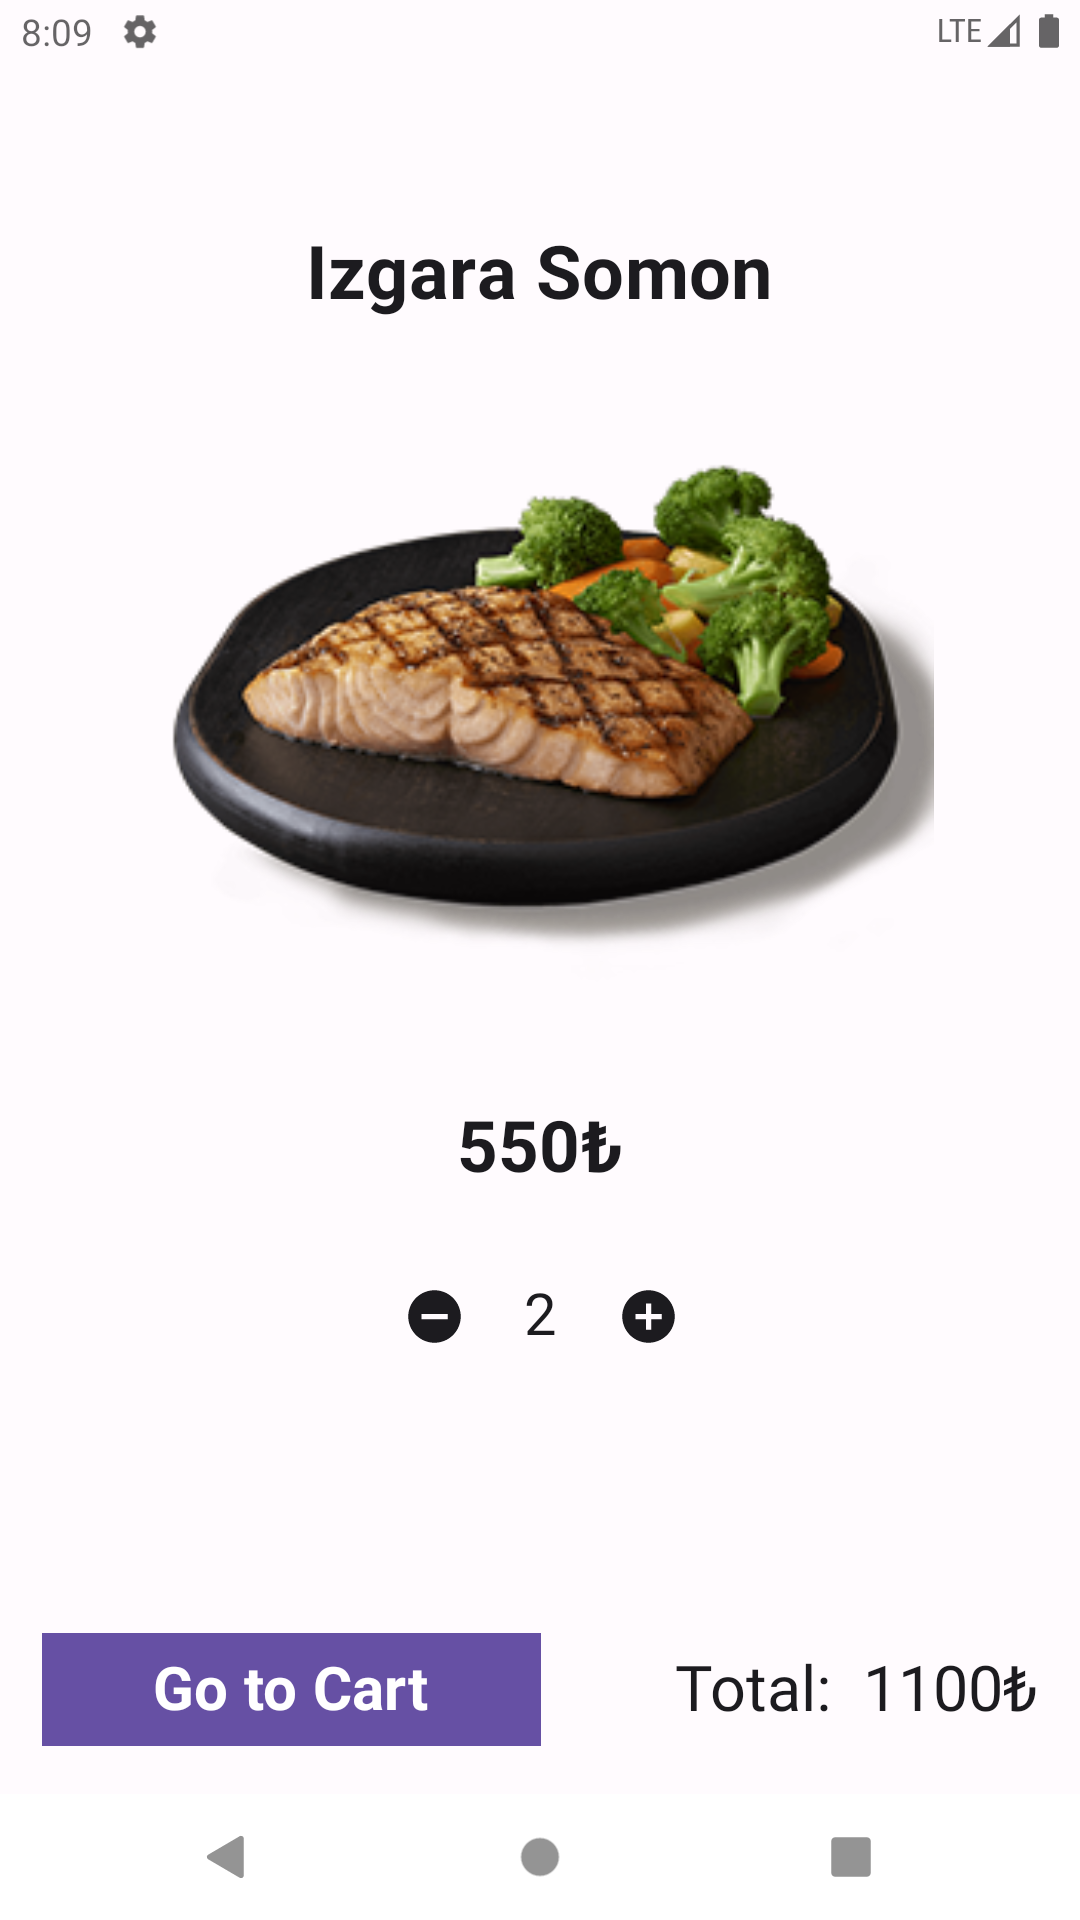
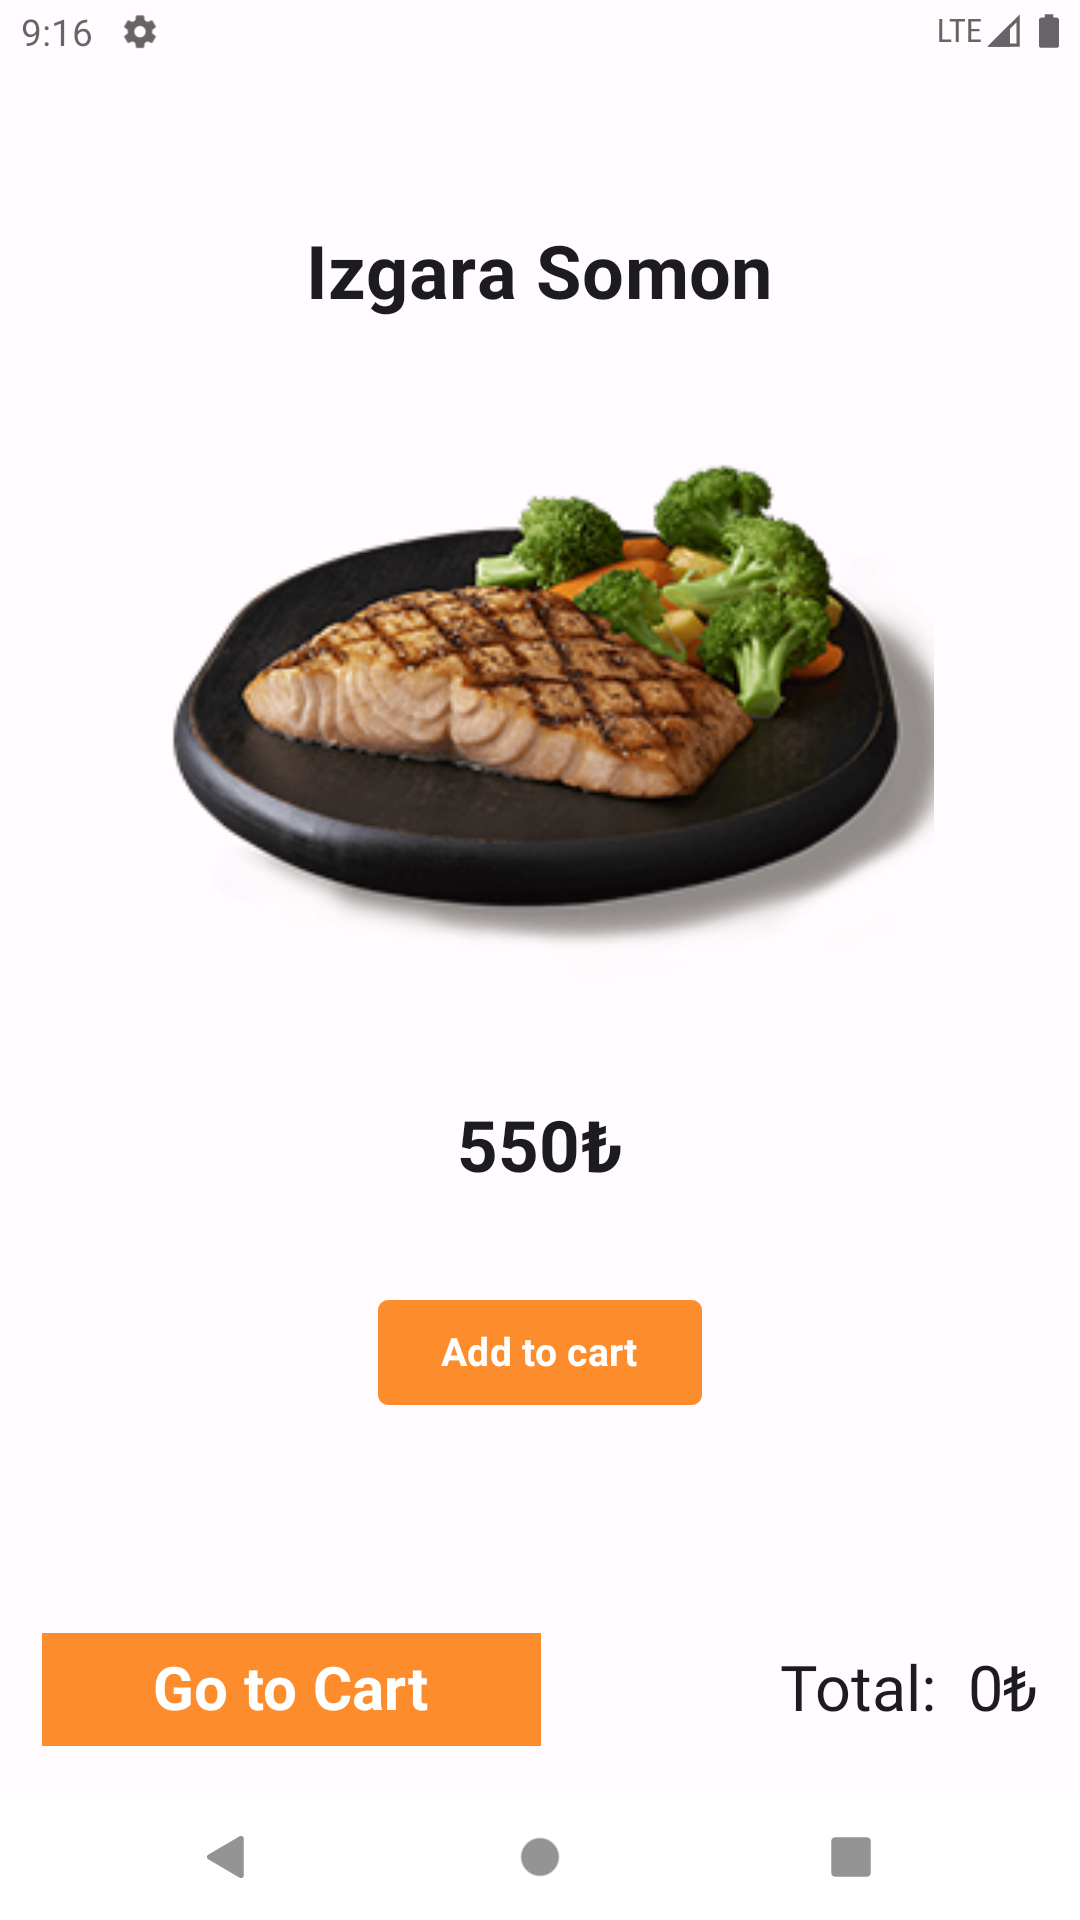
Refactor profile, fav, detail ui

diff --git a/app/src/main/java/com/example/fooddelivery/ui/presentation/Profile/ProfileScreen.kt b/app/src/main/java/com/example/fooddelivery/ui/presentation/Profile/ProfileScreen.kt
@@ -1,16 +1,25 @@
 package com.example.fooddelivery.ui.presentation.Profile
 
 import androidx.compose.foundation.Image
+import androidx.compose.foundation.background
 import androidx.compose.foundation.clickable
 import androidx.compose.foundation.layout.Arrangement
 import androidx.compose.foundation.layout.Column
+import androidx.compose.foundation.layout.Row
 import androidx.compose.foundation.layout.fillMaxSize
+import androidx.compose.foundation.layout.fillMaxWidth
+import androidx.compose.foundation.layout.height
 import androidx.compose.foundation.layout.padding
 import androidx.compose.foundation.layout.size
+import androidx.compose.foundation.layout.wrapContentHeight
 import androidx.compose.material.icons.Icons
+import androidx.compose.material.icons.automirrored.outlined.ArrowForward
 import androidx.compose.material.icons.filled.Person
+import androidx.compose.material.icons.outlined.ArrowForward
+import androidx.compose.material.icons.outlined.Person
 import androidx.compose.material3.AlertDialog
 import androidx.compose.material3.ExperimentalMaterial3Api
+import androidx.compose.material3.Icon
 import androidx.compose.material3.Scaffold
 import androidx.compose.material3.Text
 import androidx.compose.material3.TextButton
@@ -43,32 +52,59 @@ fun ProfileScreen(navController: NavHostController) {
 
     Scaffold(modifier = Modifier.fillMaxSize(),
         topBar = {
-            TopAppBar(
-                title = {
-                    androidx.compose.material.Text(
-                        text = "Profile",
-                        fontSize = 24.sp,
+            Column(
+                modifier = Modifier.fillMaxWidth(),
+                horizontalAlignment = Alignment.CenterHorizontally
+            ) {
+                TopAppBar(
+                    title = {
+                        Text(
+                            text = "Profile",
+                            fontSize = 24.sp,
+                            color = Color.White,
+                            fontWeight = FontWeight.Bold
+                        )
+                    },
+                    colors = TopAppBarDefaults.topAppBarColors(containerColor = primaryColor)
+                )
+                Column(
+                    modifier = Modifier
+                        .fillMaxWidth()
+                        .height(140.dp)
+                        .background(primaryColor),
+                    horizontalAlignment = Alignment.CenterHorizontally
+                ) {
+                    Image(
+                        modifier = Modifier.size(100.dp),
+                        imageVector = Icons.Outlined.Person, contentDescription = "profile photo"
+                    )
+                    Text(
+                        text = "John Doe",
+                        fontSize = 25.sp,
                         color = Color.White,
                         fontWeight = FontWeight.Bold
                     )
-                },
-                colors = TopAppBarDefaults.topAppBarColors(containerColor = primaryColor)
-            )
+                }
+
+            }
         }, bottomBar = { BottomBar(navController = navController) }) { paddingValues ->
         Column(
             modifier = Modifier
                 .fillMaxSize()
-                .padding(paddingValues)
-                .padding(vertical = 20.dp), verticalArrangement = Arrangement.spacedBy(16.dp),
+                .padding(paddingValues), verticalArrangement = Arrangement.spacedBy(16.dp),
             horizontalAlignment = Alignment.CenterHorizontally
         ) {
 
-            Text("Welcome!", fontSize = 25.sp)
-            Image(
-                modifier = Modifier.size(150.dp),
+            Column(modifier = Modifier.fillMaxSize()) {
 
-                imageVector = Icons.Default.Person, contentDescription = "profile photo"
-            )
+                ProfileItem("Update Profile")
+                ProfileItem("My Orders")
+                ProfileItem("My Adresses")
+                ProfileItem("Settings")
+                ProfileItem("FAQ")
+                ProfileItem("Sign Out")
+
+            }
             Text(
                 modifier = Modifier.clickable {
                     showDialog = true
@@ -81,8 +117,8 @@ fun ProfileScreen(navController: NavHostController) {
                 onConfirm = {
                     loginViewmodel.signOut()
                     if (authState is AuthState.Idle) {
-                        navController.navigate("login"){
-                            popUpTo("profile"){
+                        navController.navigate("login") {
+                            popUpTo("profile") {
                                 inclusive = true
                             }
                         }
@@ -116,5 +152,27 @@ fun SignOutDialog(
                 }
             }
         )
+    }
+}
+
+@Composable
+fun ProfileItem(name: String) {
+    Row(
+        modifier = Modifier
+            .fillMaxWidth()
+            .clickable { },
+    ) {
+        Row(
+            modifier = Modifier
+                .fillMaxWidth()
+                .padding(horizontal = 12.dp)
+                .height(60.dp)
+                .padding(10.dp),
+            horizontalArrangement = Arrangement.SpaceBetween,
+            verticalAlignment = Alignment.CenterVertically
+        ) {
+            Text(text = name, fontSize = 18.sp)
+            Icon(imageVector = Icons.AutoMirrored.Outlined.ArrowForward, contentDescription = "arrow icon")
+        }
     }
 }

diff --git a/app/src/main/java/com/example/fooddelivery/ui/presentation/FoodDetail/FoodDetailScreen.kt b/app/src/main/java/com/example/fooddelivery/ui/presentation/FoodDetail/FoodDetailScreen.kt
@@ -44,6 +44,7 @@ import androidx.navigation.NavGraph.Companion.findStartDestination
 import com.example.fooddelivery.R
 import com.example.fooddelivery.data.model.SepetYemekler
 import com.example.fooddelivery.data.model.Yemekler
+import com.example.fooddelivery.ui.theme.primaryColor
 import com.skydoves.landscapist.glide.GlideImage
 
 @OptIn(ExperimentalMaterial3Api::class)
@@ -93,7 +94,7 @@ fun FoodDetailScreen(navController: NavController, food: Yemekler) {
                               .padding(top = 8.dp), // Sabit yükseklik
                           shape = RoundedCornerShape(4.dp), // Yuvarlak köşeler
                           colors = ButtonDefaults.buttonColors(
-                              containerColor = androidx.compose.material3.MaterialTheme.colorScheme.primary, // Tema rengine göre arka plan
+                              containerColor = primaryColor, // Tema rengine göre arka plan
                               contentColor = Color.White // Beyaz yazı rengi
                           )
                       ) {
@@ -102,7 +103,9 @@ fun FoodDetailScreen(navController: NavController, food: Yemekler) {
                   } else {
                       // "-" butonu, sayacı ve "+" butonu
                       IconButton(
-                          modifier = Modifier.size(43.dp).padding(top = 14.dp), // Sabit boyut
+                          modifier = Modifier
+                              .size(43.dp)
+                              .padding(top = 14.dp), // Sabit boyut
                           onClick = {
                               count--
                           }
@@ -118,7 +121,9 @@ fun FoodDetailScreen(navController: NavController, food: Yemekler) {
 
                       // Miktar gösterimi
                       Text(
-                          modifier = Modifier.padding(horizontal = 13.dp).padding(top = 14.dp),
+                          modifier = Modifier
+                              .padding(horizontal = 13.dp)
+                              .padding(top = 14.dp),
                           text = "$count",
                           fontSize = 25.sp,
                           fontWeight = FontWeight.Medium,
@@ -127,7 +132,9 @@ fun FoodDetailScreen(navController: NavController, food: Yemekler) {
 
                       // "+" butonu
                       IconButton(
-                          modifier = Modifier.size(43.dp).padding(top = 14.dp),
+                          modifier = Modifier
+                              .size(43.dp)
+                              .padding(top = 14.dp),
                           onClick = {
                               count++
                           }
@@ -151,7 +158,8 @@ fun FoodDetailScreen(navController: NavController, food: Yemekler) {
                 Button(
                     modifier = Modifier
                         .defaultMinSize(minWidth = 200.dp) // Butonun minimum genişliği sabit
-                        .padding(end = 10.dp), // Sağdan biraz boşluk bırakıyoruz
+                        .padding(end = 10.dp),
+                    colors = ButtonDefaults.buttonColors(containerColor = primaryColor),// Sağdan biraz boşluk bırakıyoruz
                     onClick = {
                         if(count>0){
                             foodDetailViewmodel.addFoodToCart(food.yemek_adi,food.yemek_resim_adi, food.yemek_fiyat, count, "enes" )

diff --git a/app/src/main/java/com/example/fooddelivery/ui/presentation/Favorites/FavoriteScreen.kt b/app/src/main/java/com/example/fooddelivery/ui/presentation/Favorites/FavoriteScreen.kt
@@ -1,5 +1,6 @@
 package com.example.fooddelivery.ui.presentation.Favorites
 
+import androidx.compose.foundation.background
 import androidx.compose.foundation.clickable
 import androidx.compose.foundation.layout.Arrangement
 import androidx.compose.foundation.layout.Column
@@ -13,7 +14,12 @@ import androidx.compose.foundation.layout.size
 import androidx.compose.foundation.lazy.LazyColumn
 import androidx.compose.foundation.shape.RoundedCornerShape
 import androidx.compose.material.icons.Icons
+import androidx.compose.material.icons.automirrored.filled.ArrowBack
+import androidx.compose.material.icons.automirrored.filled.ArrowForward
+import androidx.compose.material.icons.automirrored.outlined.ArrowForward
 import androidx.compose.material.icons.filled.AddCircle
+import androidx.compose.material.icons.outlined.ArrowForward
+import androidx.compose.material.icons.outlined.Favorite
 import androidx.compose.material3.Card
 import androidx.compose.material3.ExperimentalMaterial3Api
 import androidx.compose.material3.Icon
@@ -93,13 +99,14 @@ fun CardItem(food: YemeklerFirebase,
         modifier = Modifier
             .fillMaxWidth()
             .padding(12.dp) // Add padding around the card
-            .clickable { }
             .shadow(8.dp, RoundedCornerShape(16.dp)), // Add shadow and round corners
         shape = RoundedCornerShape(16.dp), // Rounded corners
         // elevation = 8.dp, // Elevation for the card shadow
     ) {
         Row(modifier = Modifier
             .fillMaxWidth()
+            .clickable { }
+            .background(Color.White)
             .height(120.dp)
             .padding(vertical = 4.dp, horizontal = 10.dp)
         ) {
@@ -145,12 +152,12 @@ fun CardItem(food: YemeklerFirebase,
             ) {
 
                 Row(
-                    modifier = Modifier.fillMaxSize(),
-                    horizontalArrangement = Arrangement.SpaceAround,
+                    modifier = Modifier.fillMaxSize().padding(end = 12.dp),
+                    horizontalArrangement = Arrangement.End,
                     verticalAlignment = Alignment.CenterVertically
                 ) {
 
-             
+                    Icon(imageVector = Icons.Outlined.Favorite, contentDescription = "arrow icon", tint = primaryColor)
                 }
             }
         }
